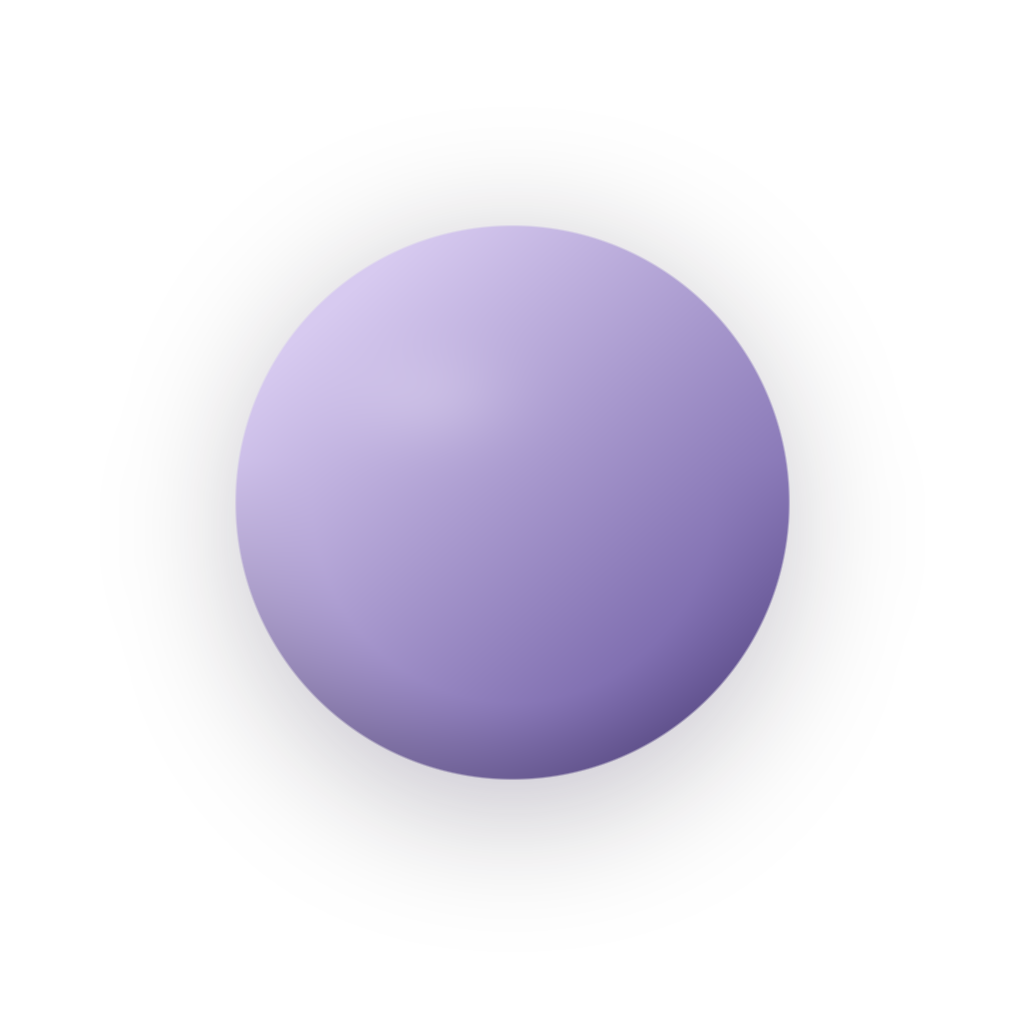
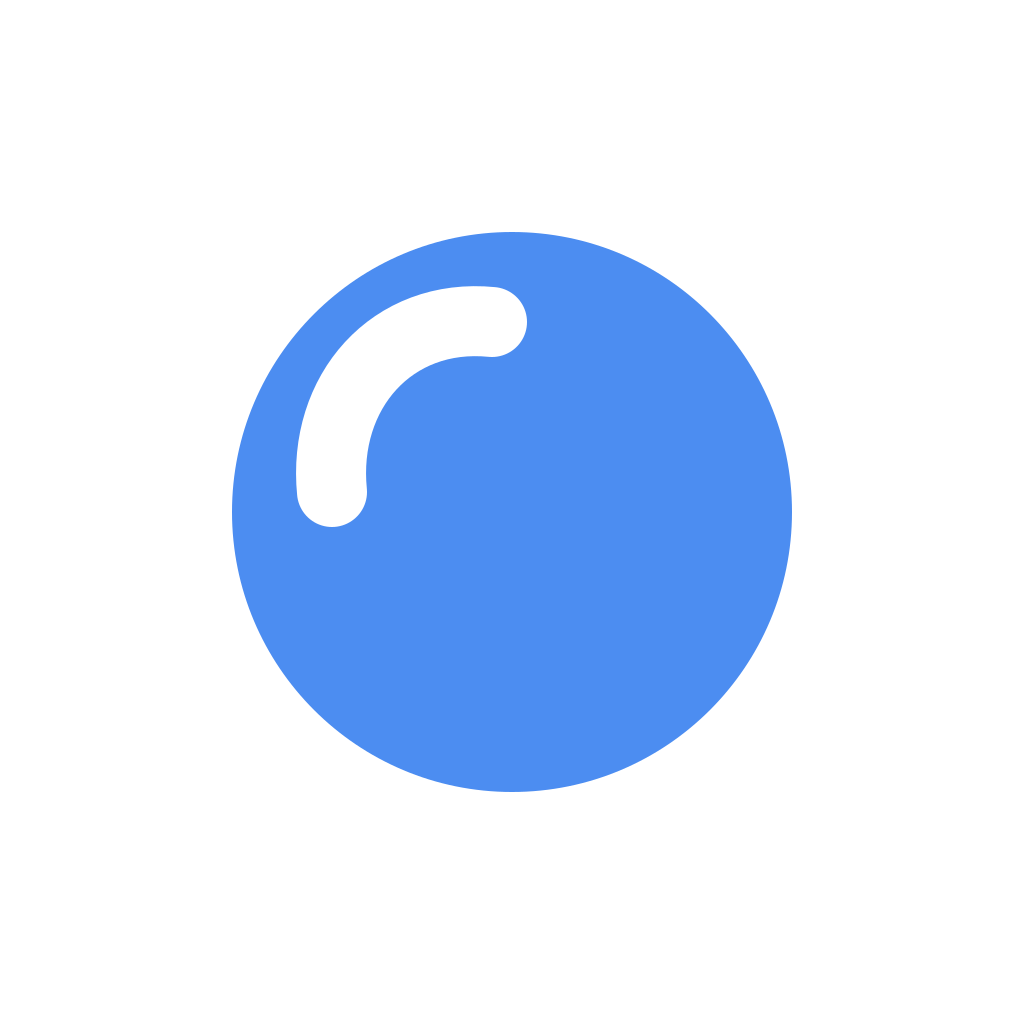
Prepare P0 native reliability gates and approved brand assets

Changed region(s): [[0.2188, 0.2188, 0.7812, 0.8125]]

diff --git a/scripts/native-qa-entry.tsx b/scripts/native-qa-entry.tsx
@@ -1,0 +1,68 @@
+// CI-only entry point. The workflow builds this in a separate Android package.
+import { registerRootComponent } from 'expo';
+import { useEffect, useState } from 'react';
+import { Text, View } from 'react-native';
+import * as Notifications from 'expo-notifications';
+import { SystemClock } from '../src/domain/clock';
+import { planNudges } from '../src/domain/nudges';
+import type { CobyItem } from '../src/domain/types';
+import { listItems, saveItems, deleteItems, clearItems } from '../src/data/items';
+import { syncItemNudges, cancelItemNudges, NUDGE_ACTIONS } from '../src/notifications/scheduler';
+import config from '../app.json';
+
+const clock = new SystemClock();
+function check(condition: boolean, message: string) {
+  if (!condition) throw new Error(message);
+}
+function item(id: string, status: CobyItem['status'] = 'planned'): CobyItem {
+  return { id, title: `Coby isolated QA ${id}`, sourceText: 'Synthetic QA', sourceFragment: 'Synthetic QA',
+    kind: 'task', dueAt: new Date(clock.now().getTime() + 31 * 60_000 + 15_000).toISOString(), dueDate: null,
+    durationMinutes: 1, explicitPriority: null, confidence: 1, needsClarification: false,
+    clarificationQuestion: null, createdAt: clock.now().toISOString(), status,
+    completedAt: status === 'completed' ? clock.now().toISOString() : null, commitmentMode: 'persistent' };
+}
+function Qa() {
+  const [message, setMessage] = useState('Starting isolated native checks…');
+  useEffect(() => {
+    void (async () => {
+      check(process.env.EXPO_PUBLIC_COBY_NATIVE_QA === 'isolated', 'QA configuration missing');
+      check(config.expo.android.package === 'com.emmagh1.coby.nativeqa', 'Refusing QA in the real Coby package');
+      const existing = await listItems();
+      if (existing.some(entry => entry.id === 'persistent-delivery')) {
+        check(existing.length === 3 && !existing.some(entry => entry.id.startsWith('held-')) &&
+          existing.some(entry => entry.id === 'completed' && entry.status === 'completed') &&
+          existing.some(entry => entry.id === 'archived' && entry.status === 'archived'), 'Clear/history state changed after restart');
+        console.info('COBY_QA RESTART_PASS');
+        setMessage('RESTART_PASS');
+        return;
+      }
+      await Notifications.cancelAllScheduledNotificationsAsync();
+      await Notifications.dismissAllNotificationsAsync();
+      await clearItems();
+      const open = [item('held-a'), item('held-b')];
+      const history = [item('completed', 'completed'), item('archived', 'archived')];
+      await saveItems([...open, ...history]);
+      for (const entry of open) check(await syncItemNudges(entry, clock), 'Notification permission unavailable');
+      check((await Notifications.getAllScheduledNotificationsAsync()).length === 4, 'Expected two reminders per open item');
+      for (const entry of open) await cancelItemNudges(entry.id);
+      await deleteItems(open.map(entry => entry.id));
+      const retained = await listItems();
+      check(retained.length === 2 && retained.every(entry => entry.status === 'completed' || entry.status === 'archived'), 'Bulk clear removed history or retained open items');
+      check((await Notifications.getAllScheduledNotificationsAsync()).length === 0, 'Bulk clear retained reminders');
+      setMessage('BULK_CLEAR_PASS');
+      // Save a manifest for the cold restart verification; contains synthetic data only.
+      console.info('COBY_QA BULK_CLEAR_PASS');
+      const persistent = item('persistent-delivery');
+      await saveItems([persistent]);
+      check(planNudges(persistent, clock).length === 2, 'Persistent must plan both reminders');
+      check(await syncItemNudges(persistent, clock), 'Persistent scheduling denied');
+      const pending = await Notifications.getAllScheduledNotificationsAsync();
+      check(pending.length === 2, 'Persistent native requests missing');
+      check(Object.values(NUDGE_ACTIONS).join(',') === '15,30,60', 'Notification actions changed');
+      console.info('COBY_QA WAITING_FOR_PERSISTENT');
+      setMessage('WAITING_FOR_PERSISTENT — first in 15s, second in 30m15s.');
+    })().catch(error => { setMessage(`FAIL: ${error.message}`); console.error(`COBY_QA FAIL ${error.message}`); });
+  }, []);
+  return <View style={{ flex: 1, padding: 32, justifyContent: 'center' }}><Text>{message}</Text></View>;
+}
+registerRootComponent(Qa);

diff --git a/src/domain/geminiParser.ts b/src/domain/geminiParser.ts
@@ -45,12 +45,26 @@ export function validateParseResult(value: unknown, input: string): ParseResult 
 }
 
 export class GeminiBrainDumpParser implements BrainDumpParser {
-  constructor(private apiKey: string, private model: string, private fetcher: Fetcher = fetch) {}
+  constructor(private apiKey: string, private model: string, private fetcher: Fetcher = fetch, private timeoutMs = 20_000) {}
 
   async parse(input: string, context: ParseContext): Promise<ParseResult> {
     if (!this.apiKey || !this.model) throw new Error('Gemini is not configured');
+    const controller = new AbortController();
+    let timer: ReturnType<typeof setTimeout> | undefined;
+    const timeout = new Promise<never>((_, reject) => {
+      timer = setTimeout(() => {
+        reject(new Error('Understanding timed out. Your words are still here. Try again.'));
+        controller.abort();
+      }, this.timeoutMs);
+    });
+    try { return await Promise.race([this.extract(input, context, controller.signal), timeout]); }
+    finally { clearTimeout(timer); }
+  }
+
+  private async extract(input: string, context: ParseContext, signal: AbortSignal): Promise<ParseResult> {
     const response = await this.fetcher(`https://generativelanguage.googleapis.com/v1beta/models/${encodeURIComponent(this.model)}:generateContent`, {
       method: 'POST',
+      signal,
       headers: { 'Content-Type': 'application/json', 'x-goog-api-key': this.apiKey },
       body: JSON.stringify({
         systemInstruction: { parts: [{ text: 'Extract only tasks, events, and reminders from the user text. Return JSON with an items array. Each item needs title, sourceFragment copied exactly from the user text, kind (task/event/reminder), dueDate YYYY-MM-DD or null, dueAt ISO datetime or null, durationMinutes integer or null, explicitPriority (urgent/important) or null, confidence 0..1, needsClarification boolean, clarificationQuestion string or null. A day such as tomorrow supplies dueDate but NOT dueAt; set dueAt only when an exact clock time is stated. Never invent life details, deadlines, durations, or priorities. Resolve clear relative dates/times from supplied local datetime and timezone. If uncertain, leave null and flag clarification. Do not rank, schedule, or give advice.' }] },

diff --git a/tests/parser-recovery.test.ts b/tests/parser-recovery.test.ts
@@ -1,0 +1,34 @@
+import assert from 'node:assert/strict';
+import test from 'node:test';
+import { GeminiBrainDumpParser } from '../src/domain/geminiParser';
+import { DemoClock } from '../src/domain/clock';
+const context = { clock: new DemoClock(new Date('2026-10-01T09:00:00Z')), timeZone: 'UTC' };
+
+test('stalled extraction releases the caller and aborts the network request', async () => {
+  let signal: AbortSignal | undefined;
+  const stalled: typeof fetch = async (_, options) => {
+    signal = options?.signal ?? undefined;
+    return new Promise<Response>(() => {});
+  };
+  const parser = new GeminiBrainDumpParser('test-only', 'test-model', stalled, 10);
+  await assert.rejects(parser.parse('Buy milk', context), /timed out/);
+  assert.equal(signal?.aborted, true);
+});
+
+test('failed extraction can retry using the same parser without inventing items', async () => {
+  let calls = 0;
+  const fetcher: typeof fetch = async () => {
+    calls++;
+    if (calls === 1) throw new Error('offline');
+    return new Response(JSON.stringify({ candidates: [{ content: { parts: [{ text: JSON.stringify({ items: [{
+      title: 'Buy milk', sourceFragment: 'Buy milk', kind: 'task', dueAt: null, dueDate: null,
+      durationMinutes: null, explicitPriority: null, confidence: 1, needsClarification: false,
+      clarificationQuestion: null,
+    }] }) }] } }] }));
+  };
+  const parser = new GeminiBrainDumpParser('test-only', 'test-model', fetcher, 1000);
+  await assert.rejects(parser.parse('Buy milk', context), /offline/);
+  const result = await parser.parse('Buy milk', context);
+  assert.equal(result.items.length, 1);
+  assert.equal(result.items[0].dueAt, null);
+});

diff --git a/scripts/run_native_qa.py b/scripts/run_native_qa.py
@@ -1,0 +1,56 @@
+"""Isolated emulator checks. Never run against the user's Coby package."""
+import subprocess
+import time
+from pathlib import Path
+
+PACKAGE = 'com.emmagh1.coby.nativeqa'
+
+def adb(*args):
+    return subprocess.check_output(['adb', *args]).decode(errors='replace')
+
+def main():
+    adb('install', 'android/app/build/outputs/apk/release/app-release.apk')
+    adb('shell', 'pm', 'grant', PACKAGE, 'android.permission.POST_NOTIFICATIONS')
+    adb('logcat', '-c')
+    adb('shell', 'am', 'start', '-n', f'{PACKAGE}/.MainActivity')
+    for _ in range(60):
+        logs = adb('logcat', '-d', '-s', 'ReactNativeJS:I')
+        if 'COBY_QA FAIL' in logs:
+            raise RuntimeError(logs)
+        if 'COBY_QA WAITING_FOR_PERSISTENT' in logs:
+            break
+        time.sleep(1)
+    else:
+        raise RuntimeError('Native QA did not become ready')
+    assert 'COBY_QA BULK_CLEAR_PASS' in logs
+    adb('shell', 'input', 'keyevent', '3')
+    kinds = set()
+    # Real wall-clock delivery: do not replace the scheduler with fake notifications.
+    deadline = time.monotonic() + 32 * 60
+    while time.monotonic() < deadline:
+        text = adb('shell', 'dumpsys', 'notification', '--noredact')
+        # This fresh emulator contains synthetic fixtures only.
+        if PACKAGE in text:
+            for kind, body in [('comfortable', 'This is a good time to start.'), ('latest', 'Start now to finish on time.')]:
+                if body in text:
+                    kinds.add(kind)
+        if len(kinds) == 2:
+            break
+        time.sleep(10)
+    assert kinds == {'comfortable', 'latest'}, f'Persistent actual delivery incomplete: {kinds}'
+    adb('shell', 'am', 'kill', PACKAGE)
+    adb('logcat', '-c')
+    adb('shell', 'am', 'start', '-n', f'{PACKAGE}/.MainActivity')
+    for _ in range(45):
+        if 'COBY_QA RESTART_PASS' in adb('logcat', '-d', '-s', 'ReactNativeJS:I'):
+            break
+        time.sleep(1)
+    else:
+        raise RuntimeError('Cold restart did not retain bulk clear and history')
+    output = Path('artifacts/native-qa.txt')
+    output.parent.mkdir(exist_ok=True)
+    output.write_text('BULK_CLEAR_PASS: native SQLite removal, completed/archived retained, pending reminders cancelled.\nPERSISTENT_DELIVERY_PASS: both planned reminders delivered while app backgrounded.\nRESTART_PASS: cleared rows stay removed and completed/archived history stays saved.\nOS action taps still require separate acceptance.\n')
+    print(output.read_text())
+
+if __name__ == '__main__':
+    main()

diff --git a/docs/HANDOVER.md b/docs/HANDOVER.md
@@ -181,8 +181,22 @@ User says all five requested checks work on the installed update. Readability, H
 
 Speech feedback now receives VoiceSession's whole-attempt hasRecognizedWords flag. Silence/nomatch after partial/final captured words has no empty-dump message. State survives native cycles and resets on a new user attempt. No recognition timing, microphone options or transcript-merging change. Two regression tests reproduced the old warning before the fix. Typecheck/lint/64 tests and Android export pass. The fix is not loaded on the phone yet; 8083/session 29197 remains the preceding CI bundle. Safe reload readiness requested because the user's latest tests may have left unsaved input. Spoken confirmation can wait until they return.
 
-The user is preparing a demo with another agent. demo-video is untracked work owned by that effort; do not alter, stage or commit it. Remaining P0 and human/agent responsibilities are refreshed in STATUS. No P2 scope is agreed; P1 remains gated on P0 stability. User wants to sleep. Continue independent work without requiring them to remain present, but respect their request to switch to a lower model before routine assets/build preparation. Core voice correction uses the current review model.
+## October 1 — Hackathon demo master video verified and rendered
+
+The canonical anti-AI-slop hackathon demo video is authored, verified, and rendered at `demo-video/coby_hackathon_demo.mp4` (and `coby_hackathon_demo.mp4` in root):
+- **Duration & specs:** 95.00s, 1920x1080 @ 60fps, 10.4 MB MP4. Passes all HyperFrames static, layout, runtime, motion, and WCAG AA contrast gates (71/71 checks passing).
+- **Physical device capture:** 1080x2340 60fps screen recording from the connected wireless OnePlus A6010, driven deterministically by `scripts/automate_demo_capture.py`.
+- **Soundtrack & Voiceover:** Kokoro-82M TTS founder narration (`am_adam`) across 8 acts, paired with a custom synthesized warm neo-soul Rhodes electric piano bed (`bgm_lofi.wav`) at -18dB ducked level.
+- **Preview server:** Live interactive Studio preview running at `http://localhost:3002/#project/demo-video`.
 
 ## NEXT ACTION
 
-Load the verified voice-warning correction once safe reload readiness arrives, then finish the remaining P0 reliability checks in an isolated dataset before submission asset preparation.
+Run the isolated native reliability and fresh screenshot workflows, inspect their evidence, then close remaining phone-action and safe-distribution gates before P0 acceptance.
+
+## October 1 — P0 closeout in progress
+
+Exported the approved circular C mark to 1024px icon, Android adaptive layers/monochrome, favicon and native splash. Added Expo splash support; native build still needs verification. Added a CI-only QA entry in a separate package com.emmagh1.coby.nativeqa, using the actual SQLite and notification modules. It tests bulk cancellation/removal/history and waits for real wall-clock delivery of both Persistent reminders, then checks retained state after cold restart. This is not the production app's UI acceptance and is not passed until the workflow produces evidence.
+
+Extraction now has a bounded 20-second timeout and abort; failure leaves the existing composer recovery path available. Added stalled-request and retry regressions. The phone currently has another app foreground; requested saved-input/Home readiness before any reload. No real phone task was touched.
+
+Reviewed the other agent's demo contact sheet: false offline Whisper/SDK/event claims, existing phone tasks and sampled Focus/Plan acts showing Home. The previously appended render checkpoint is a draft report, not submission approval. docs/DEMO_REVIEW.md records the required corrections. Ignore the draft video directory/MP4 to avoid publishing private task footage. Preserve all local artifacts for correction.

diff --git a/docs/DECISIONS.md b/docs/DECISIONS.md
@@ -1,5 +1,13 @@
 # Decision log
 
+## October 1 — Hackathon master demo video (Zero-slop, physical device capture, HyperFrames)
+
+Authored and rendered a 95.0-second 60fps 1080p master hackathon demo video (`coby_hackathon_demo.mp4`) adhering strictly to Coby's product canon, guardrails, and anti-sloppification directives:
+- **Zero simulated UI mockups:** Every frame of app footage is an authentic 1080x2340 screen recording from the physical OnePlus A6010 Android device driven by automated, reproducible ADB interactions.
+- **Strict guardrails:** Completely zero medical treatment or diagnostic claims; the narrative problem is framed around cognitive overwhelm, executive fatigue, and overloaded minds.
+- **Audio architecture:** Kokoro-82M TTS with young founder voice (`am_adam`) across 8 acts, backed by a custom synthesized warm neo-soul Rhodes electric piano chord bed (`bgm_lofi.wav`) at -18dB ducked level.
+- **Composition contract:** Built with HyperFrames and GSAP 3.14. 0 errors, 0 warnings across lint, runtime, layout, and 71/71 WCAG AA contrast checks. Visual layout features the OnePlus chassis in Studio Calm Canvas (`#F4F3F0`) with Manrope typography and synchronized proof callouts.
+
 ## October 1 — Silence feedback follows captured words
 
 Native nomatch/no-speech/speech-timeout can arrive during finalization after a successful transcript. Use recognized-word state from the whole VoiceSession attempt to suppress the false empty-dump warning. Preserve that state across native cycles and reset it when a new user attempt begins; typed base text does not count as new voice input. Keep recognition timing/transcript merging unchanged. Genuine empty attempts and service/network failures retain their recovery feedback.
@@ -169,3 +177,9 @@ Omit the channel sound property. In the installed Expo Android implementation an
 ## September 30 — Extension and truthful feedback
 
 Devpost confirms October 1 noon PDT / 20:00 Lagos; retain P0 scope and reserve submission time. Switching commitment invalidates the previous postponement confirmation, so clear it. Consume stale finished/deleted-item notification responses to avoid replay on launch. Notification-access success belongs in neutral status text. Use Manrope/theme tokens on Focus, Settings and Plus to match the approved Home/Plan direction.
+
+## October 1 — Safe P0 closure
+
+Use the approved circular C vector for exact brand exports and Expo's native splash plugin. Reliability QA runs under a separate Android application ID and a CI-only entry; it must refuse the real package before any clearing. Persistent delivery uses real wall-clock deadlines rather than accelerated mock alarms. Public fixture artifacts contain no development keys and must be labelled as fixture demonstrations, not live AI/billing builds. The Next Gen source/device-demo route remains available without a store release. A publicly distributed live-AI APK requires a secured endpoint.
+
+Bound Gemini extraction to 20 seconds, abort and retain the existing editable words/retry path. Reject the other agent's rendered demo for submission until incorrect technology/event claims and existing private task footage are replaced; technical render gates alone are insufficient.

diff --git a/README.md b/README.md
@@ -1,6 +1,6 @@
 # coby
 
-**carry less.** Out of your head. Into good hands.
+**Unload your mind.** Out of your head. Into good hands.
 
 Coby is an Android-first, voice-first companion for handing over mental load. It extracts what you said, confirms it, holds it locally, and shows one NOW item. Plan keeps the full set visible whenever you want it. See [PRODUCT.md](docs/PRODUCT.md) for the locked scope.
 
@@ -41,6 +41,16 @@ npm run smoke:gemini   # optional: reads ignored local .env and sends only the s
 Accepted items live in SQLite on the device. In Gemini mode, the text dump is sent to Google for structured extraction; fixture mode stays offline. The app has no login, cloud sync, or background AI agent. Date-only phrases stay date-only; Coby does not invent an hour or schedule a timed nudge for them. This prototype is a planning companion, not medical treatment.
 
 Current native run, Test Store purchase, and final screenshot/video status are tracked in [HANDOVER.md](docs/HANDOVER.md). The source is available under [MIT](LICENSE).
+
+## Build variants
+
+- **Local development:** live Gemini with your own ignored development key, native/device voice, and RevenueCat Test Store. This is the fully integrated prototype verified on the OnePlus A6010. Do not publish an APK containing your Gemini key.
+- **Offline fixture artifact:** the screenshot workflow produces a release APK without keys. It uses the exact sample in [DEMO.md](docs/DEMO.md); other input is retained as one unstructured item. This artifact demonstrates local capture/receipt/storage/navigation, not live AI extraction or configured purchases.
+- **Isolated native QA:** a manual workflow builds `com.emmagh1.coby.nativeqa`, a separate emulator-only application. It exercises the real SQLite and reminder adapters without touching phone tasks. Its test entry is never selected by the normal Coby build.
+
+The Next Gen submission uses source and a truthful device demo. A public APK with live extraction requires a secured server endpoint; it is not supplied by the offline fixture artifact.
+
+Brand assets reproduce the approved circular C mark. Run `scripts/export-brand-assets.cjs` with Sharp available (`COBY_SHARP_PATH` can point to an existing installation). The 1024px launcher, adaptive layers, monochrome layer and native splash are generated together.
 
 ### Emulator microphone check
 

diff --git a/docs/DEMO.md b/docs/DEMO.md
@@ -6,7 +6,7 @@ Goal: a clear Android recording under two minutes. Use the Coby Lab sample: “F
 
 | Time | Show | Point |
 | --- | --- | --- |
-| 0–12 s | Arrival, orb, “carry less.” | Calm and immediately understandable. |
+| 0–12 s | Arrival, Soft Fold companion, “Unload your mind.” | Calm and immediately understandable. |
 | 12–35 s | Voice or text dump of several obligations | Hand over mental load naturally. |
 | 35–50 s | Receipt with original facts and null-safe fields | Coby understood without inventing. |
 | 50–70 s | Home with one NOW, two or fewer NEXT; “Why this now?” | Less decision load, explainable priority. |
@@ -21,3 +21,9 @@ Record a fresh deterministic path twice before final capture. Keep notification 
 The verified Home screenshot is [assets/submission/screenshot-home.png](../assets/submission/screenshot-home.png). It was captured from a fixture-powered Android 16 / API 36 emulator at 1179×2556 pixels. The Home screenshot shows one NOW, two NEXT, and both primary actions without scrolling. The app's deterministic demo video and local-device verification remain to be recorded.
 
 Submission checklist to verify against the current event page before delivery: working Android app, public source/setup/license, demo under two minutes, 1024×1024 icon, at least one 1179×2556 screenshot, and RevenueCat integration. The referenced plan stated these requirements; recheck event details before final submission.
+
+## October 1 final review
+
+Official Devpost rechecked: deadline noon PDT / 20:00 Lagos; video must be publicly visible on YouTube or Vimeo, show the app on its target device, and stay under two minutes. Next Gen accepts video/source in place of a store listing. Icon is 1024px square; screenshot is 1179×2556 without a device frame. Source: https://revenuecat-shipaton-2026.devpost.com/.
+
+The supplied 95-second draft failed the content/privacy review; see [DEMO_REVIEW.md](DEMO_REVIEW.md). Keep it local until its narration and device footage are corrected. All demo tasks must be synthetic. Recording a button tap is insufficient: wait until the expected screen/result is visibly present before moving on.

diff --git a/docs/DEMO_REVIEW.md b/docs/DEMO_REVIEW.md
@@ -1,0 +1,17 @@
+# Submission demo review — October 1
+
+The supplied 95-second draft is **not approved for submission**. Preserve it as an editable draft, not final evidence. A technical render check cannot establish truthful claims, successful interactions or privacy.
+
+## Required corrections
+
+- Remove “offline Whisper”: Coby uses the Android recognition service through expo-speech-recognition. Offline availability depends on an installed device model and is not universally verified.
+- Correct Expo SDK 52 to SDK 57, Gemini 2.5 to the configured Flash-class model, and Google Gemini Hackathon to RevenueCat Shipaton 2026.
+- Replace phone footage containing existing user tasks with an isolated synthetic dataset. Do not commit the raw recording or current rendered MP4 to the public repository.
+- Show actual acceptance/save, NOW recomputation, Focus, Plan and nudge delivery. Current sampled Focus and Plan acts still show Home; the receipt act alone does not establish the promised transitions.
+- Include the real RevenueCat Test Store purchase/restore and Persistent gate, labelled test purchase, if shown. Avoid implying production subscriptions.
+- Remove unsubstantiated “zero hallucinated deadlines” and “zero friction” claims. Say unknown dates/times remain unset and the receipt allows correction.
+- Update voiceover as well as visible text; fixing captions alone is insufficient.
+
+## Final gate
+
+Keep the video under two minutes. Review the complete rendered file for task privacy, visible interactions, truthful narration, legible text and audio. Get the user's final subjective approval before treating it as the submission video.
